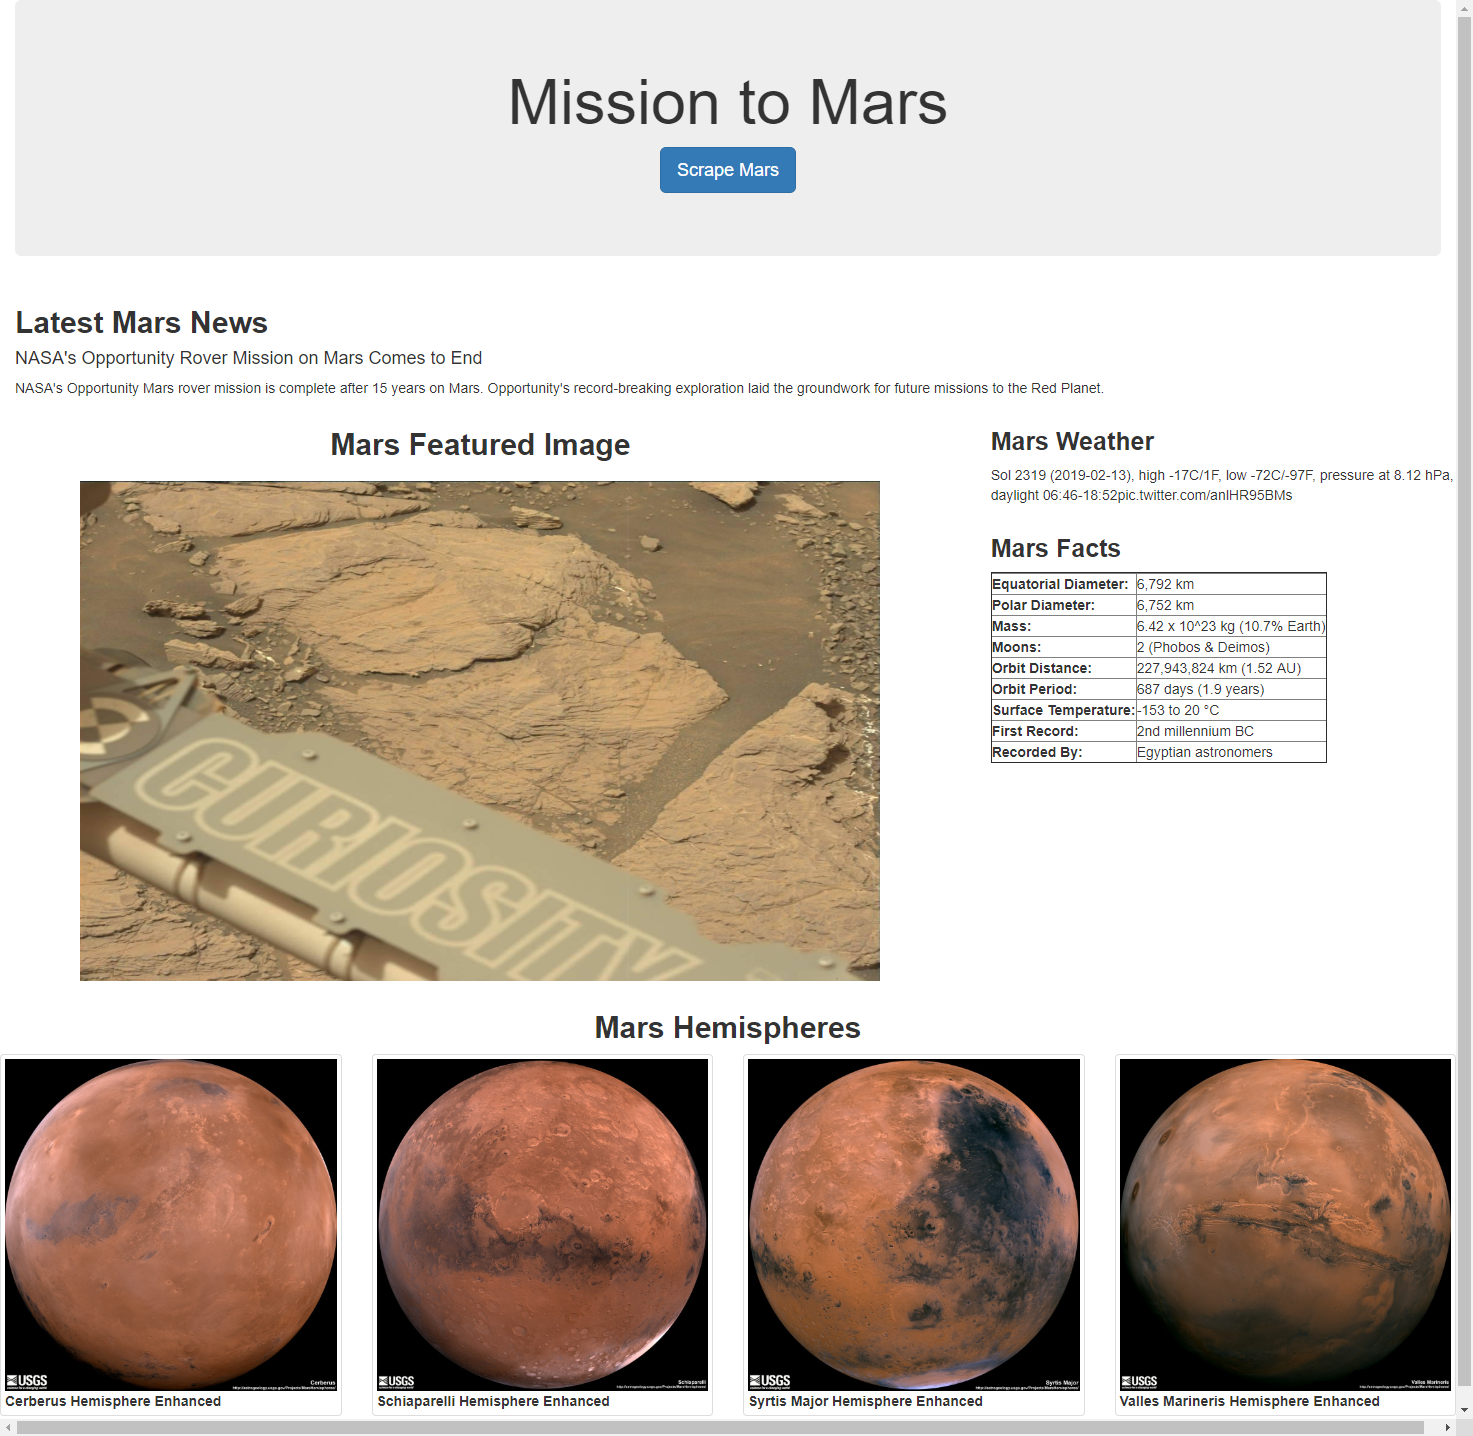
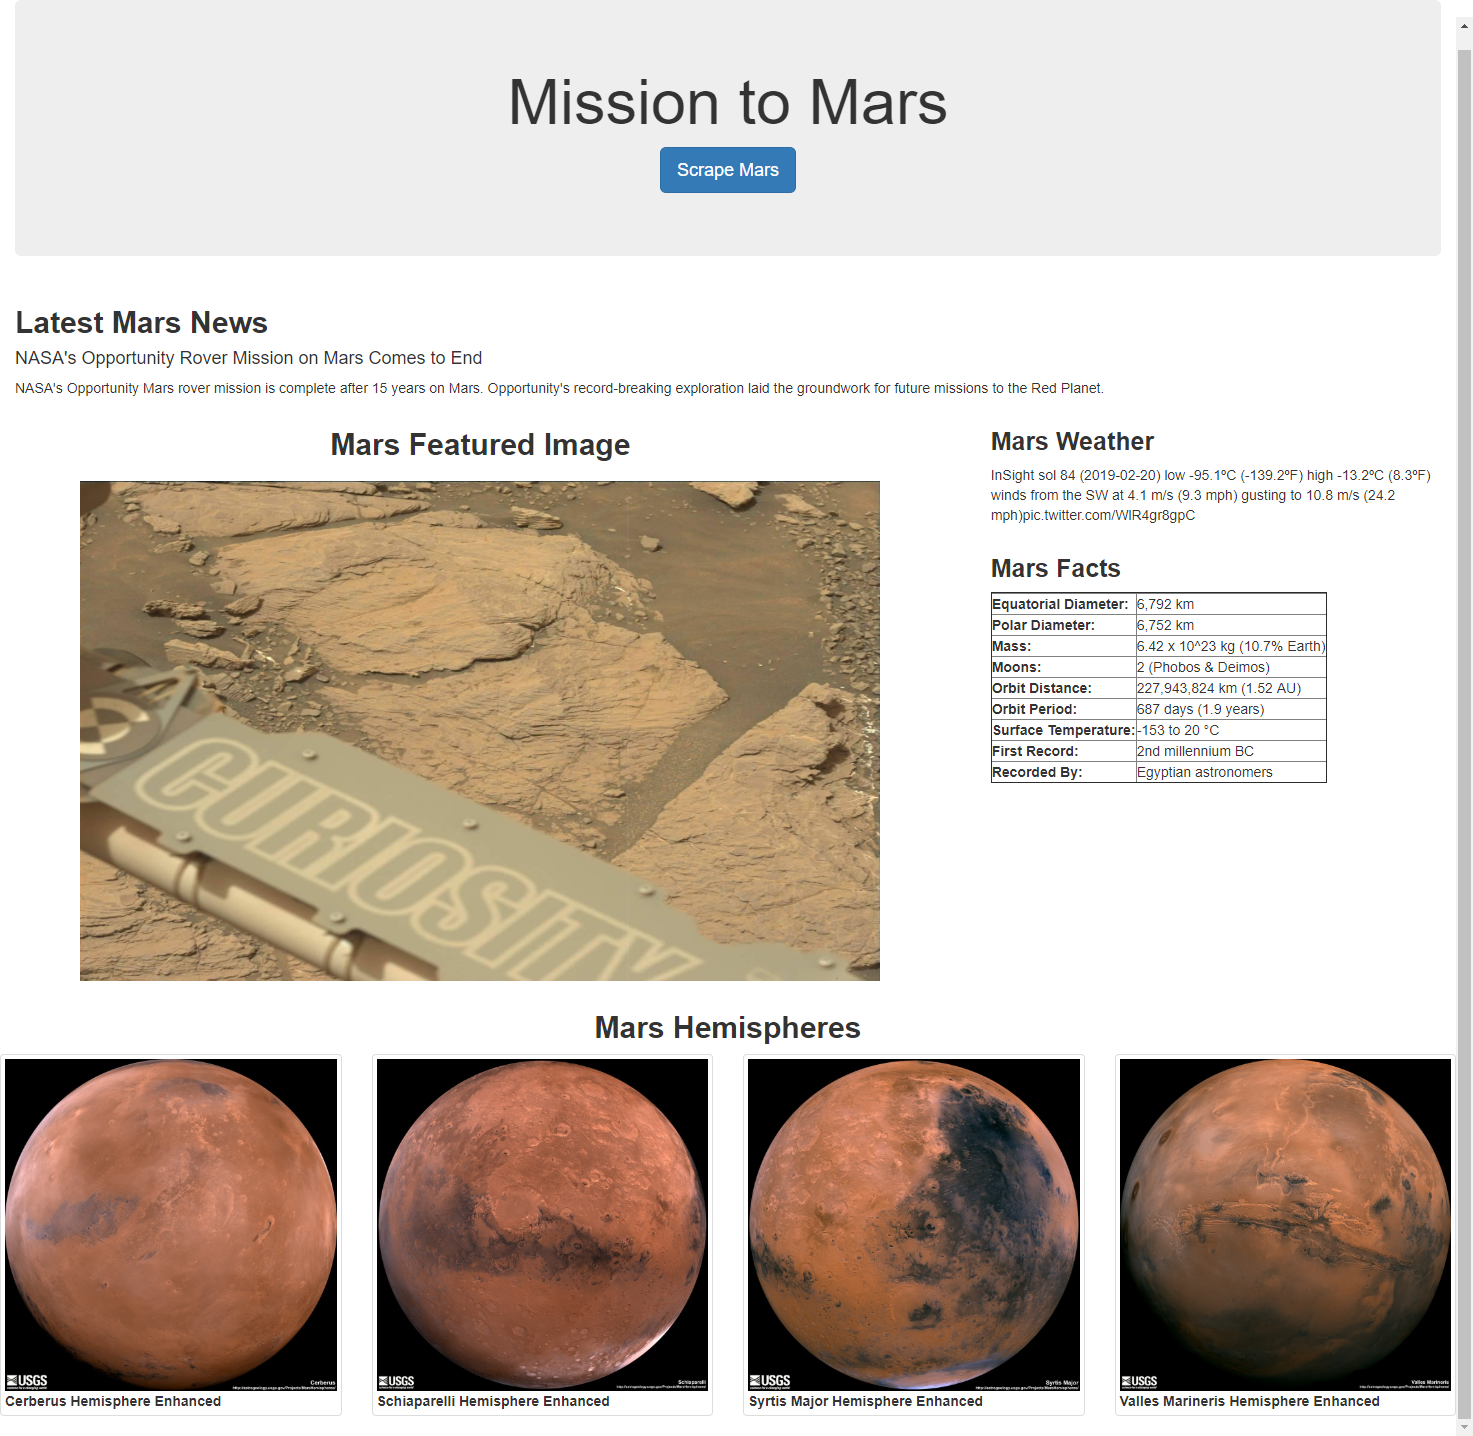
updated with tweet fix

Changed region(s): [[0.6558, 0.3064, 0.9681, 0.5515], [0.0, 0.9499, 0.9993, 1.0], [0.9681, 0.0, 0.9993, 0.0306]]

diff --git a/scrape_mars.py b/scrape_mars.py
@@ -51,7 +51,7 @@ def scrape():
 
     #add conditional to get Sol info
     for tweet in reversed (weather_list):
-        if tweet[:3]=="Sol":
+        if tweet[:3]=="InS":
             mars_weather=tweet
 
     #Mars facts
